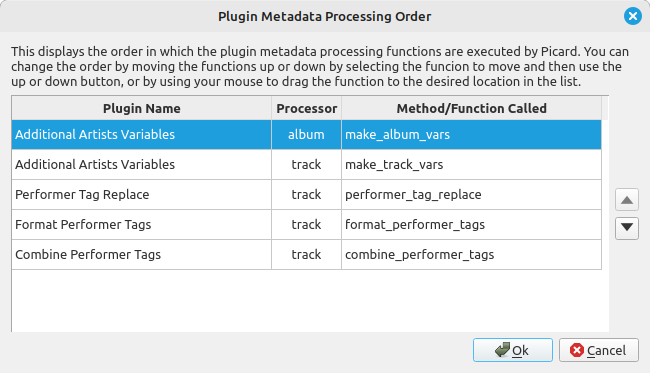
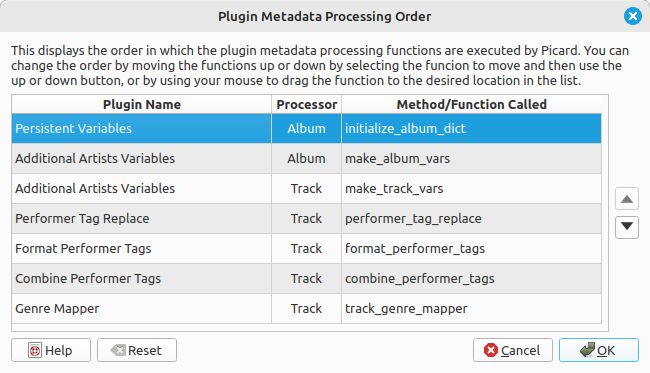
Update plugin execution order documentation

diff --git a/config/options_plugin_execution_order.rst b/config/options_plugin_execution_order.rst
@@ -3,15 +3,28 @@
 :index:`Plugin Execution Order <configuration; plugin execution order>`
 =======================================================================
 
-Each plugin that works with an album or track's metadata has their various processing functions registered with an execution priority set by the plugin author within the plugin itself. A plugin may contain multiple different processing functions, each with its own specified priority. These priorities determine the order in which the functions are executed, and are generally set as HIGH, NORMAL or LOW.
+Each plugin that works with an album or track's metadata has their various processing functions registered with an execution priority set by the plugin author within the plugin itself. A plugin may contain multiple different processing functions, each with its own specified priority. These priorities determine the order in which the functions are executed, and are generally set as high, normal or low.
 
 Most of the time this grouping of execution priorities is sufficient, however there may be a situation where one plugin processing function must be executed before another plugin function with the same priority in order to avoid unintended results. This option setting allows you to specify the order that the plugin metadata processing functions are executed, regardless of the initial registered priority for the function. In this way, you can avoid unexpected results that might otherwise occur.
+
+.. image:: images/options-plugins-context-menu.png
+   :align: center
+
+|
+
+The execution order editor can be opened from the context menu displayed by right-clicking on any of the installed plugins.
 
 .. image:: images/options-plugin-execution-order.png
    :width: 100 %
 
-When the execution order editor is opened, it will display all of the enabled plugin metadata processing functions in the order in which they are executed by Picard. You can change the order by moving the plugin processing functions up or down by selecting the function to move and then use the up or down button, or by using your mouse to drag the function to the desired location in the list.
+|
+
+When the execution order editor is opened, it will display all of the enabled plugin metadata processing functions in the order in which they are executed by Picard. You can change the order by moving the plugin processing functions up or down by selecting the function to move and then use the up or down button, or by using your mouse to drag the function to the desired location in the list. There is also an option to reset the order to that which was determined by the original plugin settings.
 
 .. note::
 
    Hovering your cursor over a plugin's name will display a description of the function, and hovering over a plugin's processing function will display a description of the function if available.
+
+.. caution::
+
+   When you save your changes, they will be applied immediately and do not depend on clicking the :guilabel:`Make It So!` button. Similarly, clicking the :guilabel:`Cancel`, :guilabel:`Restore Defaults` or :guilabel:`Restore all Defaults` buttons on the main Plugins option page will not change the plugin execution order saved perviously.

diff --git a/config/options_plugins.rst b/config/options_plugins.rst
@@ -113,7 +113,7 @@ If you right-click on a plugin in the list, a context menu will be displayed.
 
 |
 
-From this menu, you can toggle the enabled status of the plugin, uninstall, reinstall or change the installed version (reference), view detailed information, or open the plugin repository in your browser. The detailed information includes additional items such as the license, the link to the homepage for the plugin if available, and the directory that the plugin resides on your file system.
+From this menu, you can toggle the enabled status of the plugin, uninstall, reinstall or change the installed version (reference), view detailed information, open the plugin repository in your browser, or :doc:`manually set the order in which the plugins are executed <options_plugin_execution_order>`. The detailed information includes additional items such as the license, the link to the homepage for the plugin if available, and the directory that the plugin resides on your file system.
 
 .. image:: images/options-plugins-information.png
    :align: center
@@ -121,3 +121,14 @@ From this menu, you can toggle the enabled status of the plugin, uninstall, rein
 .. note::
 
    Some plugins have their own option page which will typically appear under the "Plugins" section of the Options.
+
+.. only:: html and not epub
+
+   .. seealso::
+
+      Please see the :doc:`options_plugin_execution_order` section for more information about manually setting the order in which plugins are executed.
+
+.. toctree::
+   :hidden:
+
+   options_plugin_execution_order

diff --git a/config/options_advanced.rst b/config/options_advanced.rst
@@ -41,7 +41,6 @@
       Details:
       :doc:`options_network` /
       :doc:`options_matching` /
-      :doc:`options_plugin_execution_order` /
       :doc:`options_sessions` /
       :doc:`options_maintenance`
 
@@ -50,6 +49,5 @@
 
    options_network
    options_matching
-   options_plugin_execution_order
    options_sessions
    options_maintenance
